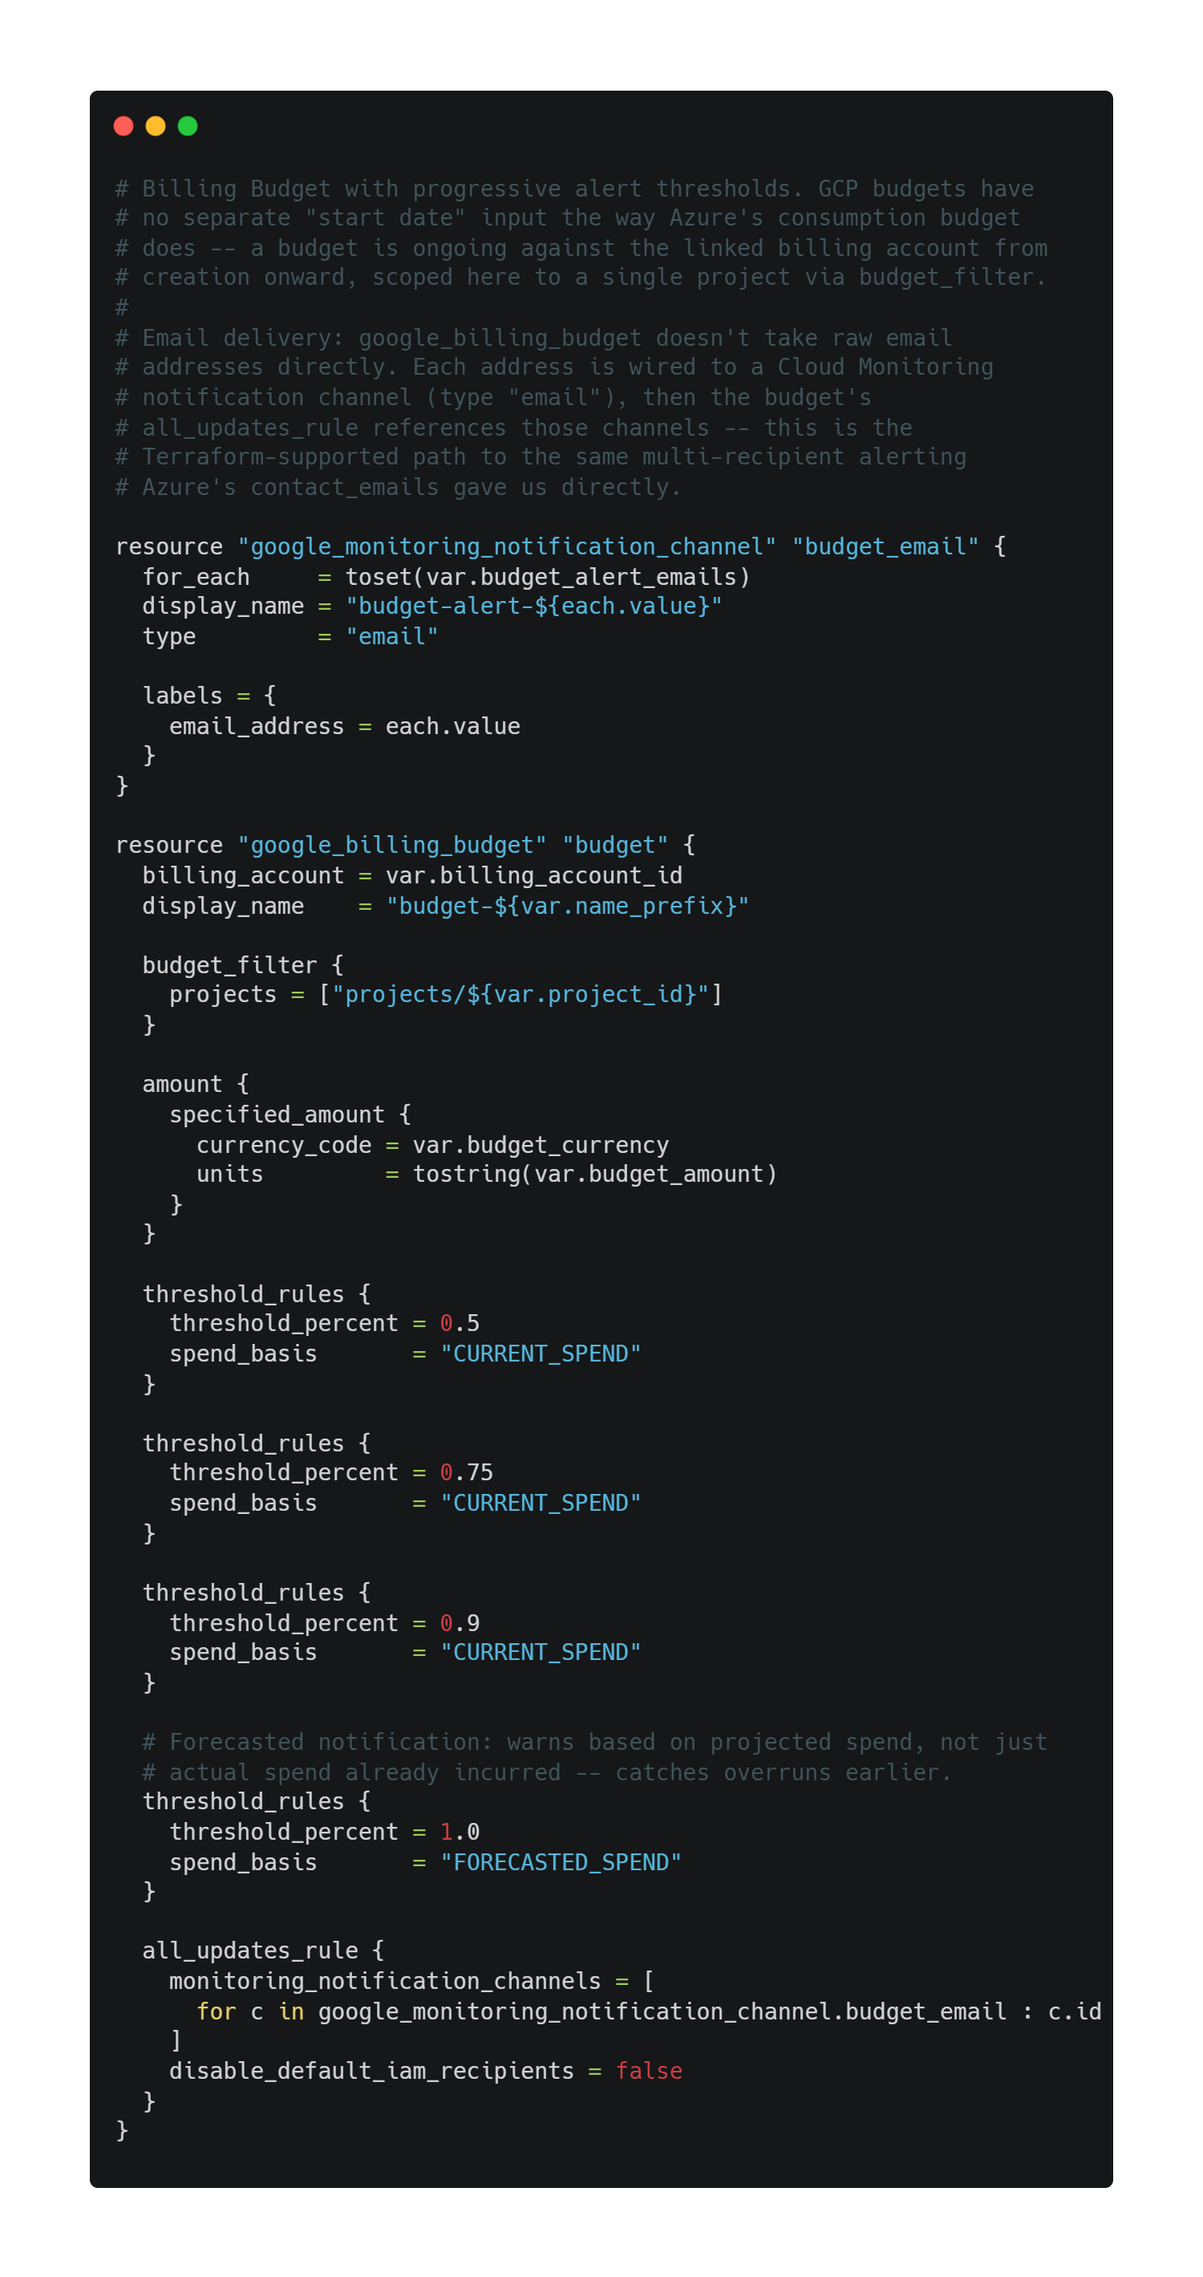
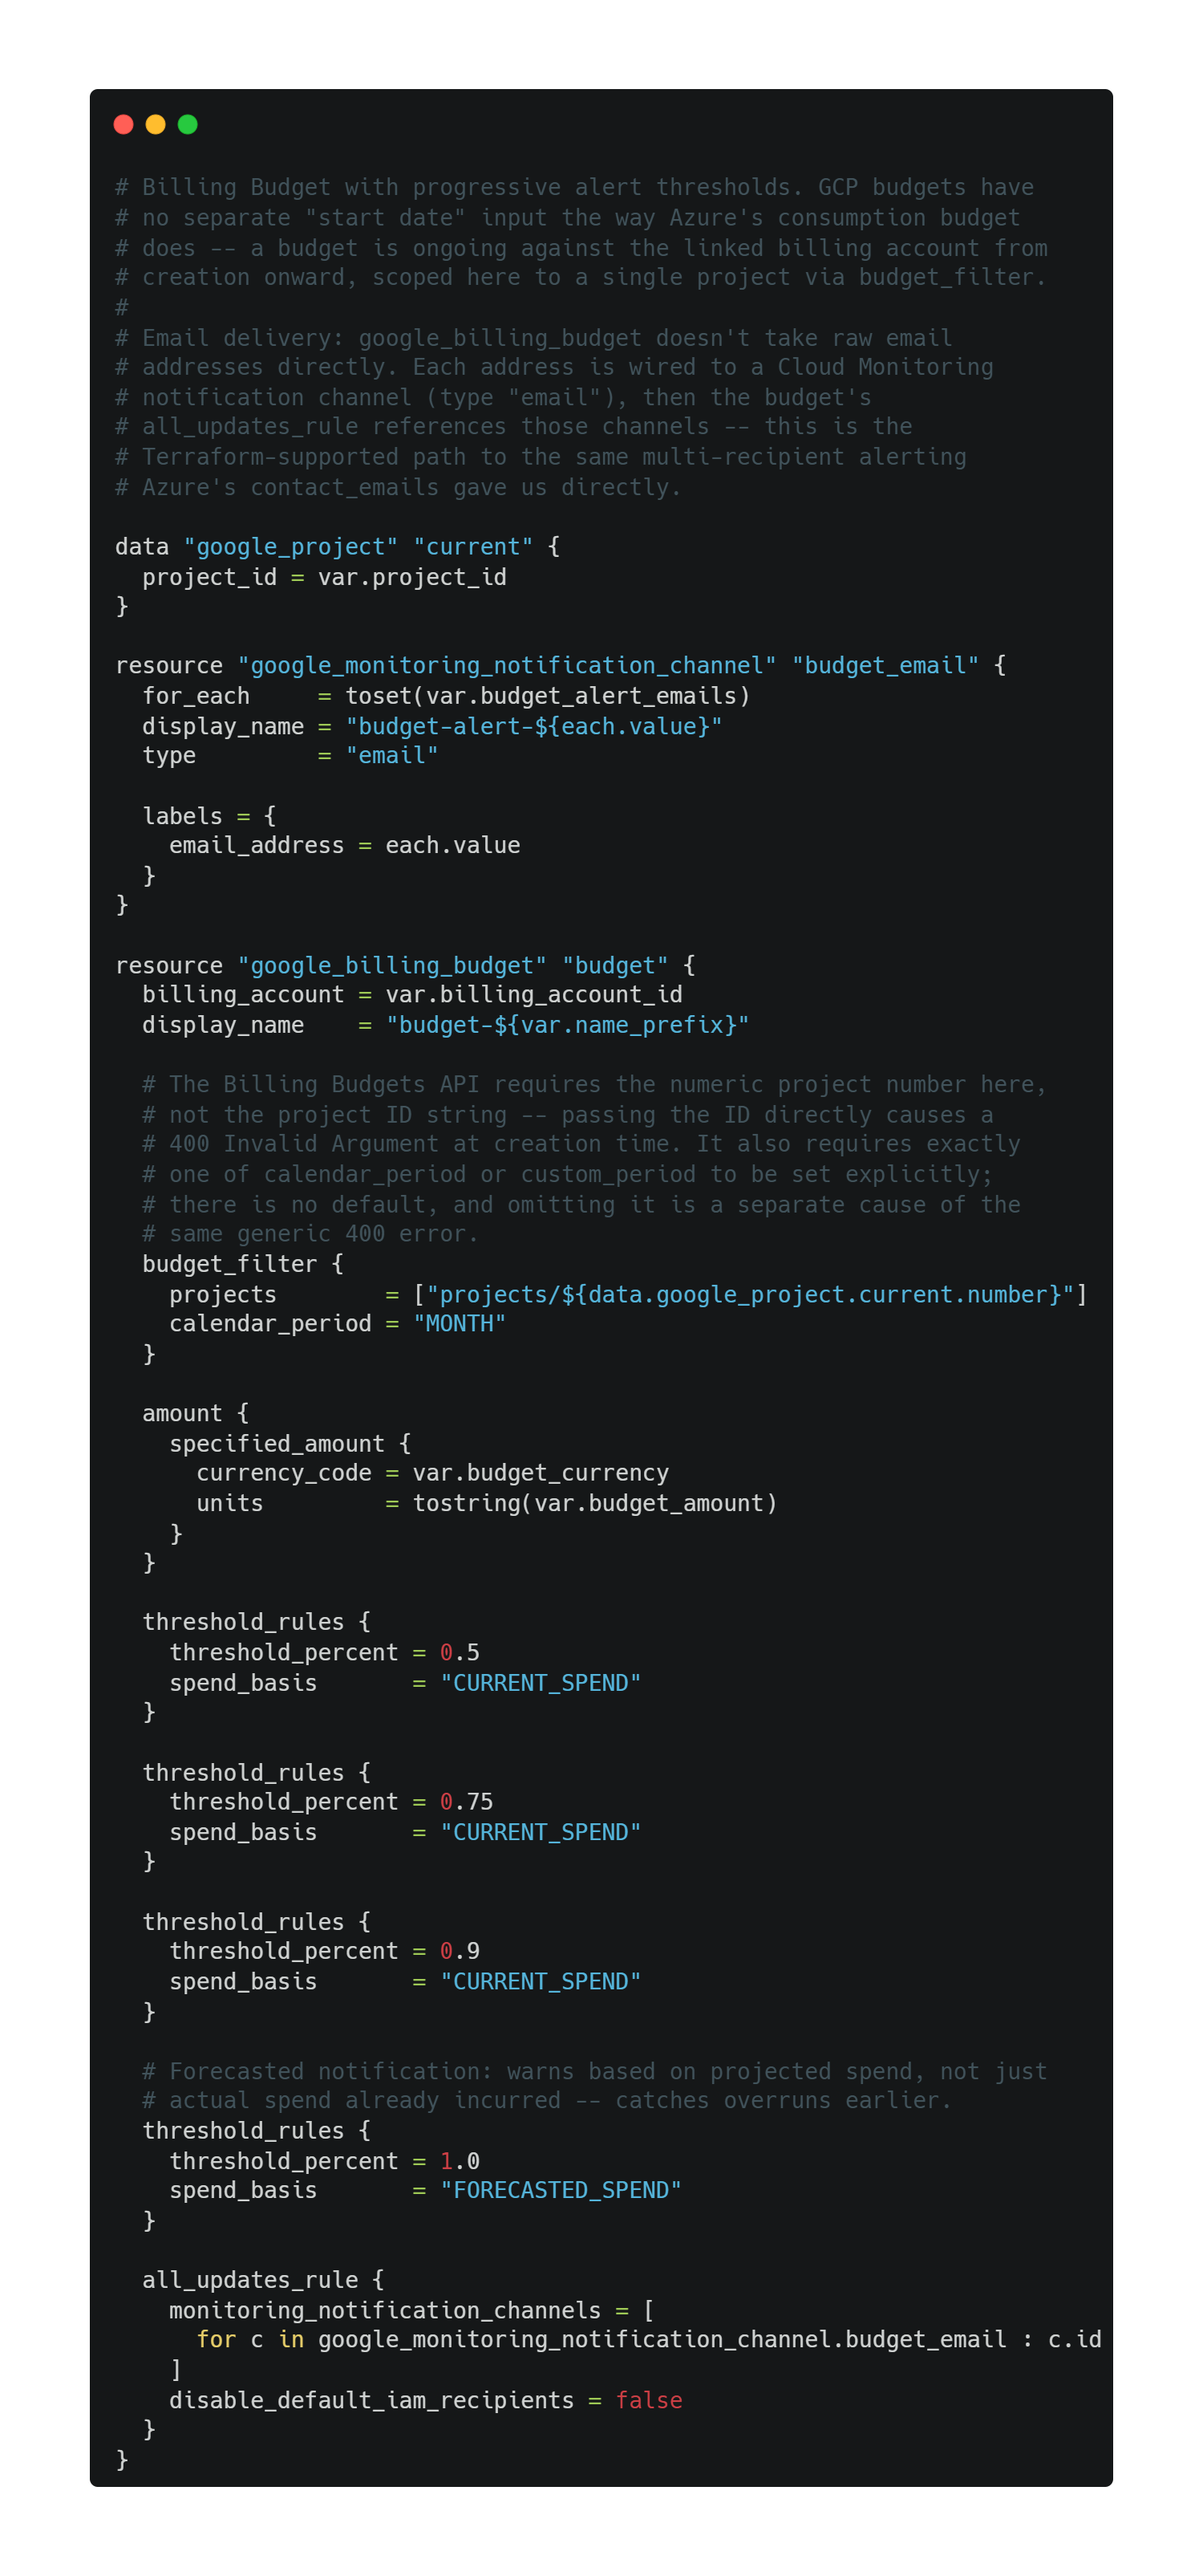
Update README secrets list and code screenshots

diff --git a/README.es.md b/README.es.md
@@ -65,7 +65,7 @@ El billing budget con umbrales progresivos y canales de notificación por correo
 ## 🤖 Pipeline de CI/CD
 El pipeline ejecuta, en orden: login por Workload Identity Federation → `terraform init` → `terraform fmt -check -recursive` → `terraform validate` → escaneo de seguridad con Checkov (bloqueante) → `terraform plan` → `terraform apply` (solo en `main`).
 
-Secrets requeridos en el repo de GitHub: `GCP_WORKLOAD_IDENTITY_PROVIDER`, `GCP_SERVICE_ACCOUNT`, `GCP_BILLING_ACCOUNT_ID`, `BUDGET_ALERT_EMAILS`.
+Secrets requeridos en el repo de GitHub: \GCP_WORKLOAD_IDENTITY_PROVIDER`, `GCP_SERVICE_ACCOUNT`, `GCP_PROJECT_ID`, `GCP_BILLING_ACCOUNT_ID`, `BUDGET_ALERT_EMAILS`, `GCP_BUDGET_CURRENCY`.`
 
 ## 📈 Roadmap
 * **Org Policy:** monitoreo continuo de cumplimiento, en paralelo con el ítem de Azure Policy del proyecto original.

diff --git a/README.it.md b/README.it.md
@@ -65,7 +65,7 @@ Il billing budget con soglie progressive e canali di notifica email per destinat
 ## 🤖 Pipeline CI/CD
 La pipeline esegue, in ordine: login Workload Identity Federation → `terraform init` → `terraform fmt -check -recursive` → `terraform validate` → scansione di sicurezza Checkov (bloccante) → `terraform plan` → `terraform apply` (solo su `main`).
 
-Secret richiesti nel repo GitHub: `GCP_WORKLOAD_IDENTITY_PROVIDER`, `GCP_SERVICE_ACCOUNT`, `GCP_BILLING_ACCOUNT_ID`, `BUDGET_ALERT_EMAILS`.
+Secret richiesti nel repo GitHub: \GCP_WORKLOAD_IDENTITY_PROVIDER`, `GCP_SERVICE_ACCOUNT`, `GCP_PROJECT_ID`, `GCP_BILLING_ACCOUNT_ID`, `BUDGET_ALERT_EMAILS`, `GCP_BUDGET_CURRENCY`.`
 
 ## 📈 Roadmap
 * **Org Policy:** monitoraggio continuo della conformità, in parallelo con la voce Azure Policy del progetto originale.

diff --git a/README.md b/README.md
@@ -65,7 +65,7 @@ The billing budget with progressive thresholds and per-recipient email notificat
 ## 🤖 CI/CD Pipeline
 The pipeline runs, in order: Workload Identity Federation login → `terraform init` → `terraform fmt -check -recursive` → `terraform validate` → Checkov security scan (blocking) → `terraform plan` → `terraform apply` (on `main` only).
 
-Required GitHub repo secrets: `GCP_WORKLOAD_IDENTITY_PROVIDER`, `GCP_SERVICE_ACCOUNT`, `GCP_BILLING_ACCOUNT_ID`, `BUDGET_ALERT_EMAILS`.
+Required GitHub repo secrets: \GCP_WORKLOAD_IDENTITY_PROVIDER`, `GCP_SERVICE_ACCOUNT`, `GCP_PROJECT_ID`, `GCP_BILLING_ACCOUNT_ID`, `BUDGET_ALERT_EMAILS`, `GCP_BUDGET_CURRENCY`.`
 
 ## 📈 Roadmap
 * **Org Policy:** continuous compliance monitoring, mirroring the source project's Azure Policy roadmap item.
